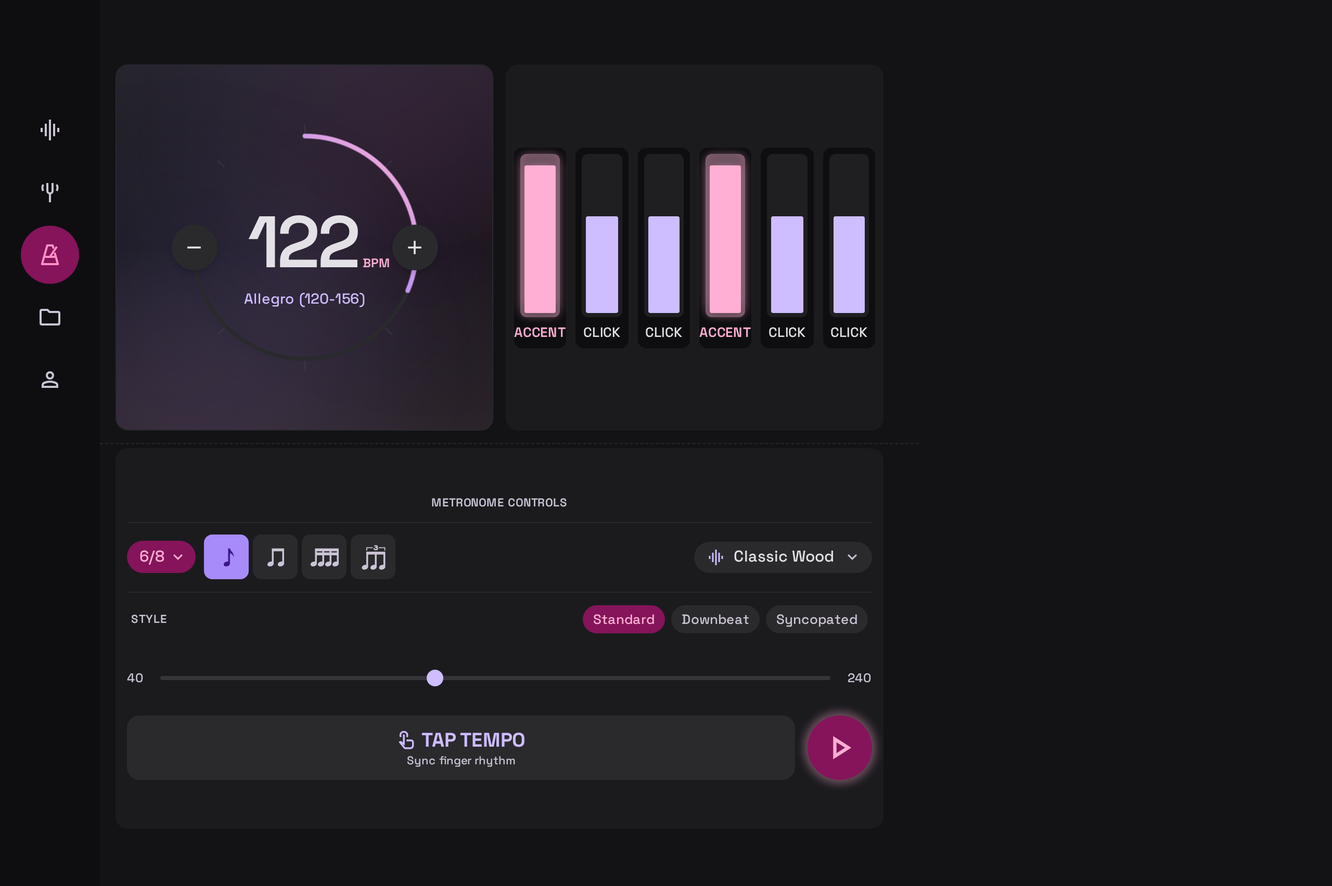
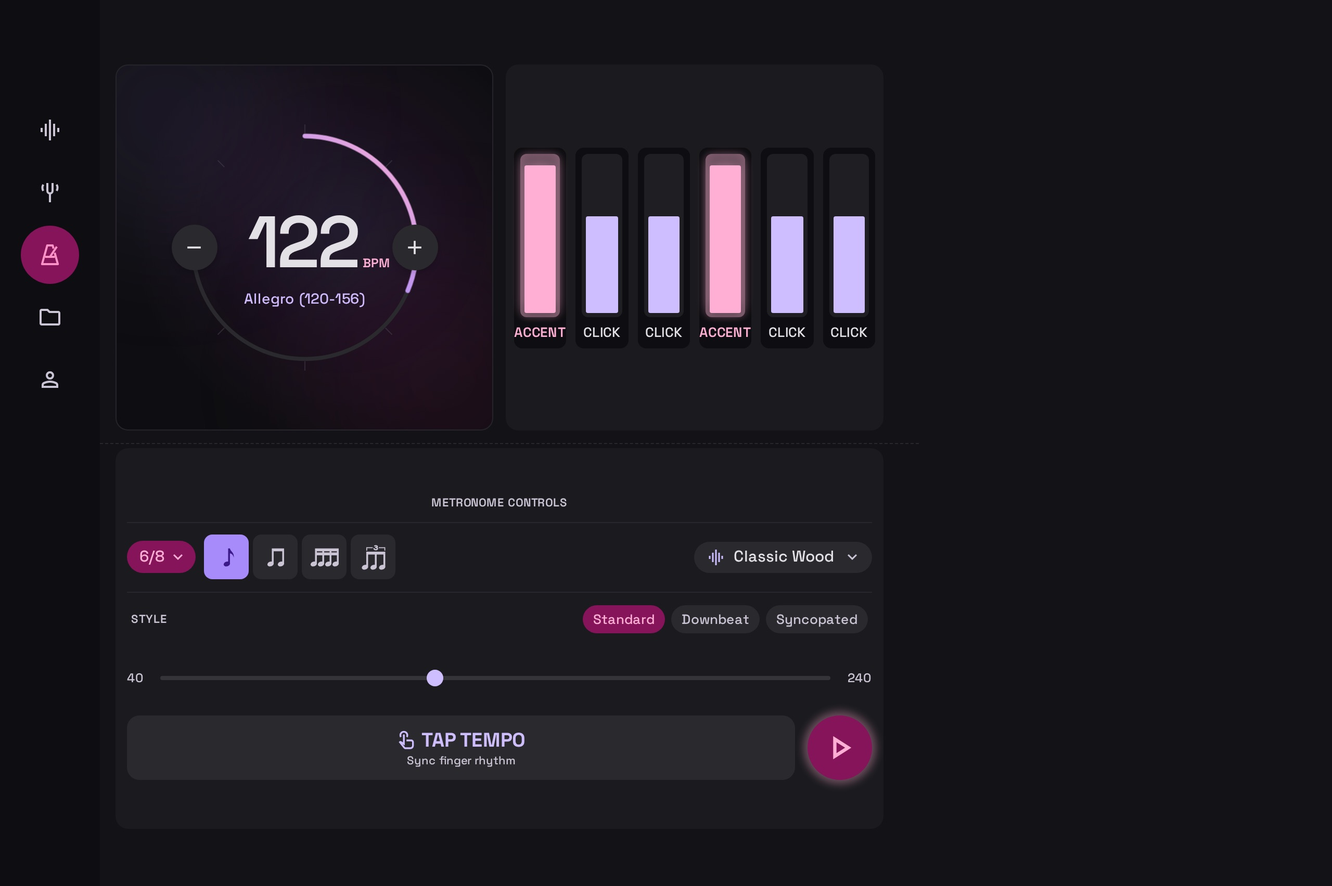
design(metronome): the spec and Stitch follow the dial card's new glow
Spec 004 records the card's look as design iteration D2 (T153-T157).
The five metronome screens in Stitch are re-uploaded with the tuner
meter's glow, no vertical tint and each form's corner discs, the old
versions hidden, and design/stitch is re-pulled from the project.

Changed region(s): [[0.0625, 0.2799, 0.3125, 0.4977], [0.2188, 0.0622, 0.375, 0.1866]]

diff --git a/design/stitch/screens/metronome/phone-landscape/index.html b/design/stitch/screens/metronome/phone-landscape/index.html
@@ -76,7 +76,7 @@
 <div class="mt-5 self-center h-[30px] pl-3 pr-3.5 rounded-full bg-[#2a2a2d] text-[#e4e1e6] text-[14px] flex items-center gap-2.5"><span class="material-symbols-outlined text-[18px] leading-none text-[#cebdff]">graphic_eq</span>Classic Wood<span class="material-symbols-outlined text-[16px] leading-none text-[#cac4d4]">expand_more</span></div>
 </section>
 <main class="flex-[3] min-w-0 flex flex-col gap-2" data-purpose="metronome-dial-pane">
-<div class="relative h-[310px] shrink-0 rounded-[22px] overflow-hidden border border-[#494552]/40" style="background:linear-gradient(180deg,rgba(206,189,255,.14) 0%,rgba(19,19,22,0) 50%,rgba(255,175,211,.12) 100%),#1b1b1e">
+<div class="relative h-[310px] shrink-0 rounded-[22px] overflow-hidden border border-[#494552]/40" style="background:radial-gradient(circle at 60% 45%, rgba(167, 139, 250, 0.12) 0%, rgba(217, 70, 239, 0.06) 35%, transparent 70%),#0e0e11">
 <svg class="absolute top-[37px] left-1/2 -ml-[189.5px]" width="379" height="236" viewBox="0 0 379 236"><defs><linearGradient id="ag" x1="0" y1="0" x2="1" y2="1"><stop offset="0" stop-color="#cebdff"/><stop offset=".6" stop-color="#d0a0f0"/><stop offset="1" stop-color="#ffafd3"/></linearGradient></defs>
 <g transform="rotate(-90 189.5 92)"><circle cx="189.5" cy="92" r="68" fill="none" stroke="#2a2a2d" stroke-width="6" stroke-linecap="round" stroke-dasharray="284.8 427.3"/><circle cx="189.5" cy="92" r="68" fill="none" stroke="url(#ag)" stroke-width="6" stroke-linecap="round" stroke-dasharray="166.2 427.3"/></g><line x1="189.5" y1="22.0" x2="189.5" y2="16.0" stroke="#494552" stroke-width="1.2" opacity=".7"/><line x1="250.1" y1="57.0" x2="255.3" y2="54.0" stroke="#494552" stroke-width="1.2" opacity=".7"/><line x1="250.1" y1="127.0" x2="255.3" y2="130.0" stroke="#494552" stroke-width="1.2" opacity=".7"/><line x1="189.5" y1="162.0" x2="189.5" y2="168.0" stroke="#494552" stroke-width="1.2" opacity=".7"/><line x1="128.9" y1="127.0" x2="123.7" y2="130.0" stroke="#494552" stroke-width="1.2" opacity=".7"/><line x1="128.9" y1="57.0" x2="123.7" y2="54.0" stroke="#494552" stroke-width="1.2" opacity=".7"/></svg>
 <button class="bpm-step-btn absolute w-11 h-11 rounded-full bg-[#2a2a2d] text-[#e4e1e6] flex items-center justify-center" style="left:113.5px;top:107px" data-delta="-1"><span class="material-symbols-outlined text-[24px]">remove</span></button>

diff --git a/design/stitch/screens/metronome/foldable-tabletop/index.html b/design/stitch/screens/metronome/foldable-tabletop/index.html
@@ -139,10 +139,9 @@
   <!-- UPPER ROW: what the musician watches (y 62-414) -->
   <!-- Dial card -->
   <section class="absolute left-[15px] top-[9px] w-[363px] h-[352px] relative-none overflow-hidden rounded-xl border border-outline-variant/40"
-       style="background: radial-gradient(circle at 50% 50%, rgba(167,139,250,0.08) 0%, rgba(30,27,46,0.4) 40%, rgba(19,19,22,0.95) 100%), #1b1b1e;">
-    <div class="absolute -top-24 -right-24 w-80 h-80 rounded-full bg-secondary-container/10 blur-3xl pointer-events-none"></div>
-    <div class="absolute -bottom-24 -left-24 w-80 h-80 rounded-full bg-primary-container/10 blur-3xl pointer-events-none"></div>
-    <div class="absolute inset-0 bg-gradient-to-b from-primary/10 via-transparent to-secondary/10 pointer-events-none"></div>
+       style="background: radial-gradient(circle at 60% 45%, rgba(167, 139, 250, 0.12) 0%, rgba(217, 70, 239, 0.06) 35%, transparent 70%), #0e0e11;">
+    <div class="absolute -top-16 -left-16 w-56 h-56 rounded-full bg-primary-container/10 blur-3xl pointer-events-none"></div>
+    <div class="absolute -bottom-16 -right-16 w-56 h-56 rounded-full bg-secondary-container/15 blur-3xl pointer-events-none"></div>
     <div class="absolute left-1/2 top-1/2 -translate-x-1/2 -translate-y-1/2 w-[268px] h-[268px]">
       <svg class="absolute inset-0 w-full h-full" viewBox="0 0 240 240">
         <defs><linearGradient id="tempoArc" x1="0%" y1="0%" x2="100%" y2="100%"><stop offset="0%" stop-color="#cebdff"/><stop offset="50%" stop-color="#a78bfa"/><stop offset="100%" stop-color="#ffafd3"/></linearGradient></defs>

diff --git a/design/stitch/screens/metronome/phone/index.html b/design/stitch/screens/metronome/phone/index.html
@@ -86,8 +86,9 @@
 </div>
 </div>
 <!-- 4. Dial card: radial glow + primary/secondary overlay, the dial filling the room left, the 40-240 slider -->
-<section class="relative flex-1 min-h-0 rounded-2xl overflow-hidden border border-surface-container-high/60 bg-surface-container-low" style="background-image: linear-gradient(180deg, rgba(206,189,255,0.10) 0%, rgba(0,0,0,0) 50%, rgba(255,175,211,0.10) 100%), radial-gradient(circle, rgba(167,139,250,0.08) 0%, rgba(30,27,46,0.4) 40%, rgba(19,19,22,0.95) 100%);">
-<div class="h-full p-3 flex flex-col items-center gap-1">
+<section class="relative flex-1 min-h-0 rounded-2xl overflow-hidden border border-surface-container-high/60 bg-surface-container-lowest" style="background-image: radial-gradient(circle at 60% 45%, rgba(167, 139, 250, 0.12) 0%, rgba(217, 70, 239, 0.06) 35%, transparent 70%);">
+<div class="absolute -top-16 -left-16 w-56 h-56 rounded-full bg-primary-container/10 blur-3xl pointer-events-none"></div><div class="absolute -bottom-16 -right-16 w-56 h-56 rounded-full bg-secondary-container/15 blur-3xl pointer-events-none"></div>
+<div class="relative h-full p-3 flex flex-col items-center gap-1">
 <div class="dial-room flex-1 min-h-0 w-full flex items-center justify-center">
 <div class="dial-box relative">
 <svg class="absolute inset-0 w-full h-full" viewBox="0 0 240 240" aria-hidden="true">

diff --git a/design/stitch/screens/metronome/tablet/index.html b/design/stitch/screens/metronome/tablet/index.html
@@ -217,10 +217,9 @@
 <section class="flex-1 min-w-0 flex flex-col gap-space-md">
   <!-- Dial card: radial glow, primary/secondary overlay, secondary disc top-end, primary disc bottom-start -->
   <div class="flex-1 min-h-0 relative overflow-hidden rounded-xl border border-outline-variant/40 flex flex-col"
-       style="background: radial-gradient(circle at 50% 50%, rgba(167,139,250,0.08) 0%, rgba(30,27,46,0.4) 40%, rgba(19,19,22,0.95) 100%), #1b1b1e;">
+       style="background: radial-gradient(circle at 60% 45%, rgba(167, 139, 250, 0.12) 0%, rgba(217, 70, 239, 0.06) 35%, transparent 70%), #0e0e11;">
     <div class="absolute -top-24 -right-24 w-80 h-80 rounded-full bg-secondary-container/10 blur-3xl pointer-events-none"></div>
     <div class="absolute -bottom-24 -left-24 w-80 h-80 rounded-full bg-primary-container/10 blur-3xl pointer-events-none"></div>
-    <div class="absolute inset-0 bg-gradient-to-b from-primary/10 via-transparent to-secondary/10 pointer-events-none"></div>
 
     <div class="flex-1 min-h-0 flex items-center justify-center relative z-10">
       <div class="relative w-[420px] h-[420px]">

diff --git a/design/stitch/screens/metronome/foldable-book/index.html b/design/stitch/screens/metronome/foldable-book/index.html
@@ -193,8 +193,9 @@
 <!-- DIAL COLUMN (right half) -->
 <section class="absolute left-[342px] top-4 w-[398px] flex flex-col gap-[14px]">
   <div class="h-[656px] relative overflow-hidden rounded-[28px] border border-outline-variant/40"
-       style="background: radial-gradient(circle at 50% 46%, rgba(167,139,250,0.06) 0%, rgba(30,27,46,0.45) 45%, rgba(19,19,22,0.9) 100%), #1b1b1e;">
-    <div class="absolute inset-0 bg-gradient-to-b from-primary/10 via-transparent to-secondary/10 pointer-events-none"></div>
+       style="background: radial-gradient(circle at 60% 45%, rgba(167, 139, 250, 0.12) 0%, rgba(217, 70, 239, 0.06) 35%, transparent 70%), #0e0e11;">
+    <div class="absolute -top-16 -right-16 w-56 h-56 rounded-full bg-secondary-container/15 blur-3xl pointer-events-none"></div>
+    <div class="absolute -bottom-16 -left-16 w-56 h-56 rounded-full bg-primary-container/10 blur-3xl pointer-events-none"></div>
 
     <div class="absolute left-1/2 top-[303px] -translate-x-1/2 -translate-y-1/2 w-[379px] h-[379px]">
       <svg class="absolute inset-0 w-full h-full" viewBox="0 0 240 240">

diff --git a/design/stitch/README.md b/design/stitch/README.md
@@ -30,8 +30,8 @@ Nine screens, each in a phone (390-wide) and tablet (1280-wide) variant; the tun
 | **Instrument tuner** (phone re-uploaded 2026-10-06, feature 006) | `instrument-tuner/phone` | `instrument-tuner/tablet` | Guitar / Cello, 6- or 7-string, Auto Listen vs By Ear. Arc gauge with needle, detected note (E2), Hz readout vs target, flat/sharp arrows, "In tune" badge, mic-active pill. The phone screen is now the upload "Instrument Tuner v2": the Stitch generation with the noise gate control at the foot of the gauge card (`NOISE GATE`, `Off` … `High`, the handle at the middle, the live fill past it). The tablet screen in Stitch drifted long ago (it shows automation lanes and a loop library, not the tuner) and was left as it is; the wide form with the control is `instrument-tuner/foldable-open` in the Foldable row. `instrument-tuner/phone-landscape` is the upload "Tuner (Auto Listen) v2": `tuner-landscape-auto-listen-b` with the control after the Tuning Mode switch in its settings column. The three superseded instances are hidden on the canvas. **2026-10-12:** the instrument selector is text only (spec 003, Session 2026-10-12): the Guitar and Cello icons were removed from every tuner screen that shows the selector and each was re-uploaded as a new version in the old one's place, the old instance hidden: phone v3 `4542867753612022076`, phone-landscape v3 `13900825118786649906`, Auto Listen foldable tabletop v4 `5360875646321662768` and open v2 `3198787914536488665`, By Ear cello phone v2 `116235278497487229`, 7-string tablet v2 `17273921086221105479`, foldable tabletop v3 `13336090417556192113` and open v2 `8625576761894439905`, and the landscape By Ear screens the app follows, `tuner-landscape-by-ear-e` v2 `8958752524680122356` and `-g` v2 `11418771186187222377`. The other landscape variants (rejected in research R9/R11) keep their icons. **2026-10-17 (icon-only navigation):** phone v5 `9386409406371084226` keeps the concept set in its bottom bar (Timeline, Tuner, Effects, Pads, Projects) without labels, Tuner on a `primary-container` pill; tablet v3 `13715299767573205047` and phone-landscape v5 `9714541075202016605` carry the app's set without Home (Timeline, Tuner, Metronome, Projects, Profile) on the 96 px rail, Tuner on a `secondary-container` circle (the landscape rail's SVG icons became Material Symbols and Profile joined the stack). **2026-10-17 (2): hand-drawn Tuner and Metronome glyphs:** phone v6 `10250620529119926488` (the bar's Tuner item is the tuning fork), tablet v4 `10913915500151973575` and phone-landscape v6 `14105338959300295387` (on the rail Tuner is the tuning fork and Metronome the pyramid metronome); the preset picker keeps its music note. |
 | **Tuner by ear** | `tuner-by-ear-cello/phone` | `tuner-by-ear-7-string-guitar/tablet` | Reference-tone mode: tuning preset picker, loop-tone toggle, one card per string (note, Hz, Audition / Playing). 2026-10-17 (icon-only navigation): cello phone v4 `4943357663610608963` (bottom bar Timeline, Tuner, Effects, Pads, Projects; Tuner on a `primary-container` pill) and 7-string tablet v4 `14943775607115315460` (the 96 px rail with Remote; Tuner on a `secondary-container` circle). **2026-10-17 (2): hand-drawn Tuner and Metronome glyphs:** cello phone v5 `2421641025489999709` and 7-string tablet v5 `6508945011555100532`, the Tuner item is the tuning fork; the preset picker keeps its music note. |
 | **Tuner, phone landscape** (added 2026-09-28) | `tuner-landscape-auto-listen-a` … `-e`, `tuner-landscape-by-ear-a` … `-g` | — | Twelve variants of the tuner for a phone held sideways (all `DESKTOP` canvases, about 1280 × 410–720). The app follows `tuner-landscape-auto-listen-b` ("Mobile Landscape Auto Listen Tuner"; its screen is hidden on the canvas, superseded by `instrument-tuner/phone-landscape`, and its export here is history: it still shows the header label) and `tuner-landscape-by-ear-g` / `-e` ("Mobile Landscape By Ear", six and seven strings): a labelled rail (these reference variants were left as they are on 2026-10-17; the app's rail is now icon-only, see `instrument-tuner/phone-landscape`), a settings column (instrument, strings, mode, preset, loop toggle) and the gauge or the string cards beside it. Rationale and the rejected variants: `specs/003-instrument-tuner/research.md` R9/R11. |
-| **Metronome** (added 2026-09-29; all three screens re-synced to the app on 2026-10-01) | `metronome/phone` | `metronome/tablet` | Each screen is now an HTML upload that mirrors the app's own captures (`specs/004-metronome/screenshots/`), not a Stitch generation. Phone (v5, 2026-10-17: icon-only navigation, no Home; v4, 2026-10-16: no app header): one compact bar-shape card (time-signature menu pill beside four note-figure subdivision tiles, accent cells with labels, STYLE pills), the sound pill, a dial card that takes the remaining height, the Tap Tempo and Play row with an 8 px halo, and the app's bottom bar without labels (Timeline, Tuner, Metronome, Projects, Profile), Metronome on a `primary-container` pill. `metronome/phone-landscape` (v11, 2026-10-17: icon-only rail, no Home; v10, no header): the app's 96 px rail (same five items, Metronome on a `secondary-container` circle), a 2:3 split with the stacked landscape card (signature and style menu pills, tiles, label-less cells, sound pill) and the dial card spanning the right pane with the transport beneath. Tablet (v4, 2026-10-17: icon-only rail, no Home; v3, no header): the 96 px rail, the Wide layout's settings column (TIME SIGNATURE chips, RHYTHM SUBDIVISION chips with glyphs and labels, accent cells with STYLE pills, CLICK TIMBRE tiles) beside a dial card filling the rest and the transport card beneath. Superseded instances are hidden on the canvas; Stitch's three generated proposals for the compact phone layout stay for reference. **2026-10-17 (2): hand-drawn Tuner and Metronome glyphs:** phone v6, landscape v12 and tablet v5 show the tuning fork for Tuner and the pyramid metronome for Metronome. |
-| **Foldable** (added 2026-10-02, feature 005; refreshed the same day for design iterations D1/D2; Auto Listen refreshed 2026-10-06 for feature 006) | — | `instrument-tuner/foldable-tabletop` (v3), `instrument-tuner/foldable-open` (new), `tuner-by-ear/foldable-tabletop`, `metronome/foldable-tabletop`, `metronome/foldable-book`, `tuner-by-ear/foldable-open` | HTML uploads that mirror the app on a Pixel 9 Pro Fold (`specs/005-tabletop-posture/screenshots/`). Tabletop (v2, 883 × 852, the fold at y 426 drawn as a faint dashed guide, 12 px gutters): the meter or the cello's 2 × 2 string cards above a card with a centred TUNER CONTROLS heading and the controls stacked in one centred column; the metronome's ring-only dial and tall accent cells above one METRONOME CONTROLS card (signature, tiles and sound; style; slider; tap and play). Book (852 × 883, the hinge at x 426): the metronome's settings before the hinge, the dial and transport after it. Open (852 × 883): the By Ear grid of square cards, centred, a short last row centred. The v1 tabletop instances are hidden. Stitch draws their thumbnails on its wide canvas; the HTML is the design. Feature 006 (2026-10-06): the tuner's tabletop controls card (v3) carries the noise gate control under the mode selector, with the heading, seam and column moved up to stay centred; "Tuner Auto Listen (Foldable Open)" (852 × 883, next to the By Ear open screen on the canvas) is the wide form: the rail, the selector row with a MIC ACTIVE pill, and one card with the regular gauge centred in the room above the control at the card's foot (480 wide, centred). The mocks draw the slider's track 4 px tall where the app's is 6 dp; everything else follows the captures in `specs/006-tuner-noise-gate/screenshots/`. The tabletop v2 instance is hidden. **2026-10-17 (icon-only navigation):** every foldable screen's rail is the app's 96 px rail without labels or Home (Timeline, Tuner, Metronome `av_timer`, Projects, Profile), items from 44 px under the status-bar inset, the active item on a `secondary-container` circle; the content beside it is 32 px narrower and the fold or hinge guide stays where it was: Auto Listen tabletop v6 and open v4, By Ear tabletop v5 and open v4, metronome tabletop v4 and book v3. **2026-10-17 (2): hand-drawn Tuner and Metronome glyphs:** Auto Listen tabletop v7 and open v5, By Ear tabletop v6 and open v5, metronome tabletop v5 and book v4: on the rail Tuner is the tuning fork and Metronome the pyramid metronome. |
+| **Metronome** (added 2026-09-29; all three screens re-synced to the app on 2026-10-01) | `metronome/phone` | `metronome/tablet` | Each screen is now an HTML upload that mirrors the app's own captures (`specs/004-metronome/screenshots/`), not a Stitch generation. Phone (v5, 2026-10-17: icon-only navigation, no Home; v4, 2026-10-16: no app header): one compact bar-shape card (time-signature menu pill beside four note-figure subdivision tiles, accent cells with labels, STYLE pills), the sound pill, a dial card that takes the remaining height, the Tap Tempo and Play row with an 8 px halo, and the app's bottom bar without labels (Timeline, Tuner, Metronome, Projects, Profile), Metronome on a `primary-container` pill. `metronome/phone-landscape` (v11, 2026-10-17: icon-only rail, no Home; v10, no header): the app's 96 px rail (same five items, Metronome on a `secondary-container` circle), a 2:3 split with the stacked landscape card (signature and style menu pills, tiles, label-less cells, sound pill) and the dial card spanning the right pane with the transport beneath. Tablet (v4, 2026-10-17: icon-only rail, no Home; v3, no header): the 96 px rail, the Wide layout's settings column (TIME SIGNATURE chips, RHYTHM SUBDIVISION chips with glyphs and labels, accent cells with STYLE pills, CLICK TIMBRE tiles) beside a dial card filling the rest and the transport card beneath. Superseded instances are hidden on the canvas; Stitch's three generated proposals for the compact phone layout stay for reference. **2026-10-17 (2): hand-drawn Tuner and Metronome glyphs:** phone v6, landscape v12 and tablet v5 show the tuning fork for Tuner and the pyramid metronome for Metronome. **2026-11-09 (the dial card takes the tuner meter's glow, spec 004 D2):** phone v7 `11921914303701879142`, landscape v13 `2340040591068649069` and tablet v6 `30228000537795116` draw `meterCompact`'s radial on `surface-container-lowest` with no vertical tint. The phone's dial card carries the tuner's corner discs, the tablet keeps its discs in the opposite corners, and landscape has none. |
+| **Foldable** (added 2026-10-02, feature 005; refreshed the same day for design iterations D1/D2; Auto Listen refreshed 2026-10-06 for feature 006) | — | `instrument-tuner/foldable-tabletop` (v3), `instrument-tuner/foldable-open` (new), `tuner-by-ear/foldable-tabletop`, `metronome/foldable-tabletop`, `metronome/foldable-book`, `tuner-by-ear/foldable-open` | HTML uploads that mirror the app on a Pixel 9 Pro Fold (`specs/005-tabletop-posture/screenshots/`). Tabletop (v2, 883 × 852, the fold at y 426 drawn as a faint dashed guide, 12 px gutters): the meter or the cello's 2 × 2 string cards above a card with a centred TUNER CONTROLS heading and the controls stacked in one centred column; the metronome's ring-only dial and tall accent cells above one METRONOME CONTROLS card (signature, tiles and sound; style; slider; tap and play). Book (852 × 883, the hinge at x 426): the metronome's settings before the hinge, the dial and transport after it. Open (852 × 883): the By Ear grid of square cards, centred, a short last row centred. The v1 tabletop instances are hidden. Stitch draws their thumbnails on its wide canvas; the HTML is the design. Feature 006 (2026-10-06): the tuner's tabletop controls card (v3) carries the noise gate control under the mode selector, with the heading, seam and column moved up to stay centred; "Tuner Auto Listen (Foldable Open)" (852 × 883, next to the By Ear open screen on the canvas) is the wide form: the rail, the selector row with a MIC ACTIVE pill, and one card with the regular gauge centred in the room above the control at the card's foot (480 wide, centred). The mocks draw the slider's track 4 px tall where the app's is 6 dp; everything else follows the captures in `specs/006-tuner-noise-gate/screenshots/`. The tabletop v2 instance is hidden. **2026-10-17 (icon-only navigation):** every foldable screen's rail is the app's 96 px rail without labels or Home (Timeline, Tuner, Metronome `av_timer`, Projects, Profile), items from 44 px under the status-bar inset, the active item on a `secondary-container` circle; the content beside it is 32 px narrower and the fold or hinge guide stays where it was: Auto Listen tabletop v6 and open v4, By Ear tabletop v5 and open v4, metronome tabletop v4 and book v3. **2026-10-17 (2): hand-drawn Tuner and Metronome glyphs:** Auto Listen tabletop v7 and open v5, By Ear tabletop v6 and open v5, metronome tabletop v5 and book v4: on the rail Tuner is the tuning fork and Metronome the pyramid metronome. **2026-11-09 (the dial card takes the tuner meter's glow, spec 004 D2):** metronome tabletop v6 `17075753265749514286` (the tuner's corner discs) and book v5 `17628491395953355793` (the discs in the opposite corners, which the app already drew): the same radial on `surface-container-lowest`, no vertical tint. |
 | **Audio export & stem mastering** | `export-mastering/phone` | `export-mastering/tablet` | Stem routing matrix (per-stem checkbox, tag, format, size), estimated total, format (WAV / FLAC / MP3 320 / AAC), sample rate, bit depth, gradient "Render selected stems" CTA. v2 of both (2026-10-17, icon-only navigation): the phone's bottom bar (Timeline, Tuner, Effects, Pads, Projects) has Projects on a `primary-container` pill; the tablet's 96 px rail (with Remote) has Tuner, which the original already marked active, on a `secondary-container` circle. 2026-10-17 (2): hand-drawn Tuner and Metronome glyphs: v3 of both, the Tuner item is the tuning fork. |
 
 | **Mixer and timeline references** (added 2026-10-13, feature 009; evidence for feature 010) | `mixer-timeline/phone-drawer` | `mixer-timeline/tablet-split-v1`, `-v2`, `-console` | Image-only screens from the user's **second** Stitch project, https://stitch.withgoogle.com/projects/13820816821466270236 ("Studio Sound" design system; Stitch holds no HTML for them, so each folder has only `screenshot.jpg`, 768 × 1376). Phone: a timeline with a two-row ruler (bars with a lilac playhead chip, seconds), large square S/M buttons and a Pan L/R slider per header, full-height rounded clips with filled waveforms (lilac, salmon, rose), and a "Mixer" drawer at the bottom with a master fader, LED meter and FX dial. Tablet: a six-strip mixer console (numbers, dual meters, VU dials, pan knobs, Solo/Mute, long-throw faders with a dB scale in the console version) beside a six-track timeline; a top transport with record and a "120 BPM / 4/4" pill, and their own bottom navigation. Only the timeline parts are decided in spec 009; the mixer parts wait for spec 010; the top transport, bottom navigation, iOS status bars and the Studio Sound tokens are drift against this project's `DESIGN.md`. Listed in `screens.json` with a `project` field. |

diff --git a/specs/004-metronome/contracts/metronome-screen.md b/specs/004-metronome/contracts/metronome-screen.md
@@ -71,7 +71,7 @@ Column(testTag "screen.metronome", padding pageMargin)
 │   │   ├── AccentCells(oneRow) — every beat in one row whenever each cell keeps 44 dp: the row spans the card's inner width with a 2–4 dp gap and the cell width is the share of that width; the level label is hidden when a cell is narrower than its widest label (6/8 and 7/8 on a phone) and the bar alone shows the level; only when 44 dp cannot be kept the cells wrap as before   "metronome.cells", cells "metronome.cell.<n>"
 │   │   └── StyleRow(state.settings.style, onStyle)                                                      "metronome.style", pills "metronome.style.<id>"
 │   ├── ClickSoundPicker(layout = Dropdown, sound, customSound, onSound, onImport, onReplace)             "metronome.sound", menu items "metronome.sound.<id>", "metronome.sound.replace"
-│   └── TembraGradientCard(glow = tempoDialCard, weight 1, testTag "metronome.dialCard"): TempoDial sized from the remaining height (ring 160–300 dp)   "metronome.dial", steppers "metronome.dial.down" / "metronome.dial.up"
+│   └── TembraGradientCard(glow = meterCompact, discs = TopStartBottomEnd, weight 1, testTag "metronome.dialCard"): TempoDial sized from the remaining height (ring 160–300 dp)   "metronome.dial", steppers "metronome.dial.down" / "metronome.dial.up"
 │       └── TempoSlider(tempo, onTempo)                                                                   "metronome.slider"
 └── Row(pinned, gap md): TapTempoButton(caption, onTap) "metronome.tap"; PlayPauseButton(running, onTogglePlayback) "metronome.play"
 
@@ -84,7 +84,7 @@ of Stacked; every other device and every test keep the bands above. Research and
 Column(testTag "screen.metronome", padding pageMargin × sm, gap sm)
 ├── Card (surfaceContainerLow, medium corners, padding sm): AccentCells(form = BarOnly, gap 4 dp)      "metronome.cells"
 ├── Box(weight 1)
-│   ├── TembraGradientCard(tempoDialCard, fills the box): TempoDial (ring up to 300 dp) + TempoSlider      "metronome.dialCard"
+│   ├── TembraGradientCard(meterCompact, discs = None, fills the box): TempoDial (ring up to 300 dp) + TempoSlider; the tiers without the ring use the same glow with discs = TopStartBottomEnd      "metronome.dialCard"
 │   └── settings button (TopEnd, inset xs): 44 dp round surfaceContainerHigh, TembraIcon.Settings, "Metronome settings"   "metronome.pocket.settings"
 └── Row(pinned, gap md): TapTempoButton + PlayPauseButton (above the bottom edge; since 2026-10-04 the shell's
     LayoutMode.EndRail puts the navigation in the end-edge column on the Duo, so no bottom bar sits under the row)
@@ -109,14 +109,14 @@ Wide (840 dp or wider and 480 dp or taller):
 Row(testTag "screen.metronome", padding pageMargin, gap md)
 ├── Column(width max(1/3, wideSettingsMinWidth), verticalScroll): MetronomeSettingsPanel with ClickSoundPicker(layout = Tiles) in a "CLICK TIMBRE" card
 └── Column(weight 1, gap md)
-    ├── TembraGradientCard(tempoDialCard, discs = TopEndBottomStart, weight 1): TempoDial (max 420 dp, centred) + TempoSlider
+    ├── TembraGradientCard(meterCompact, discs = TopEndBottomStart, weight 1): TempoDial (max 420 dp, centred) + TempoSlider
     └── Card: Row(max 448 dp, centred): TapTempoButton (weight 1) + PlayPauseButton
 
 Landscape (600 dp or wider, shorter than 480 dp):
 Row(testTag "screen.metronome", padding pageMargin × sm, gap md)
 ├── settings column (2⁄5 of the content width — a 2:3 split against the dial pane, the user's choice on 2026-10-01 — never under 240 dp × font scale; verticalScroll only when the card does not fit): the LANDSCAPE bar-shape card, which differs from the Stacked card because the real column is only about 300 dp on the Pixel 6 Pro and 260 dp on the iPhone 17 once the rail and the safe areas are taken (sixth check, 2026-10-01): Row(gap sm): TimeSignatureMenu + StyleMenu ("Standard ▾", see design-system-additions); Row: SubdivisionTiles filling the width; AccentCells(labels hidden — the bar's height and colour carry the level, the stateDescription announces it — gap 4 dp, one row when every cell keeps 44 dp, otherwise two rows of 44 dp cells); then ClickSoundPicker(Dropdown). Heights at the default font: about 180 dp at 4/4 and 232 dp at 7/8, inside the 287 dp (Pixel) / 292 dp (iPhone 17) content height, so nothing scrolls. TimeSignatureChips and SubdivisionChips remain the Wide controls only
 └── dial pane (the remaining 3⁄5): Column(gap sm) filling the pane's width — the dial card spans the whole pane (the ring centred, sized from the height) and the transport row under it spans the pane too (revised 2026-10-01, the user's second to fourth landscape checks)
-    ├── TembraGradientCard(tempoDialCard, testTag "metronome.dialCard"): TempoDial with the ring sized from the pane height (height − transport row − slider − gaps − paddings, clamped 160–300 dp), TempoSlider
+    ├── TembraGradientCard(meterCompact, discs = None, testTag "metronome.dialCard"): TempoDial with the ring sized from the pane height (height − transport row − slider − gaps − paddings, clamped 160–300 dp), TempoSlider
     └── Row(gap sm): TapTempoButton (weight 1) + PlayPauseButton — the row's height scales between 48 and 64 dp with the pane height (targets never under 44 dp); the pane scrolls only when even a 48 dp row leaves the ring under 160 dp
     (the former "larger dial" rule that put tap and play beside the dial card is withdrawn)
 ```

diff --git a/specs/004-metronome/data-model.md b/specs/004-metronome/data-model.md
@@ -261,11 +261,11 @@ Tokens added (tested for parity with research R10 in `MetronomeTokensTest`):
 | `TembraSpacing.soundMenuWidth` / `soundTileHeight` / `soundTileGlyphBox` | 160 dp / 44 dp / 28 dp |
 | `TembraSpacing.wideSettingsMinWidth` | 320 dp (the wide layout's left column, 1/3 of the width at least this) |
 | `TembraGradients.tempoArc` | linear, start → end of the dial box: `primary` (#CEBDFF) → `primaryContainer` (#A78BFA) at 50 % → `secondary` (#FFAFD3) |
-| `TembraGradients.tempoDialCard` | radial at (0.5, 0.5): `primaryContainer` 8 % → #1E1B2E 40 % at 40 % → `surfaceDim` 95 % at 100 % |
-| `TembraGradients.tempoDialOverlay` | vertical linear: `primary` 10 % → transparent at 50 % → `secondary` 10 % |
+| `TembraGradients.tempoDialCard` | radial at (0.5, 0.5): `primaryContainer` 8 % → #1E1B2E 40 % at 40 % → `surfaceDim` 95 % at 100 %. Since 2026-11-09 no screen draws it: the dial card uses the tuner's `meterCompact` |
+| `TembraGradients.tempoDialOverlay` | vertical linear: `primary` 10 % → transparent at 50 % → `secondary` 10 %. Since 2026-11-09 no screen draws it |
 | `TembraGradients.accentGlow` | `Glow(secondary 50 %, 12 dp)` |
 | `TembraGradients.playGlow` | `Glow(secondary 35 %, 24 dp)` |
-| `CardDiscs.TopStartBottomEnd` (default, the tuner's) / `CardDiscs.TopEndBottomStart` (the tablet dial card) | placement of the existing disc tokens |
+| `CardDiscs.TopStartBottomEnd` (default, the tuner's; since 2026-11-09 also the stacked and tabletop dial cards and the pocket card without the ring) / `CardDiscs.TopEndBottomStart` (the tablet dial card) | placement of the existing disc tokens |
 
 `TembraIcon` gains `Remove, Add, TouchApp, MusicNote, GraphicEq, RadioButtonChecked,
 Notifications, Sensors, Tune, Check`. No colour is added to `TembraColorScheme` or `DawColors`.

diff --git a/specs/004-metronome/tasks.md b/specs/004-metronome/tasks.md
@@ -336,6 +336,18 @@ description: "Task list for feature 004: metronome"
 
 ---
 
+## Phase 12: Design iteration D2 (2026-11-09) — the dial card takes the tuner meter's glow
+
+**Goal**: every metronome dial card draws the tuner's meter-card glow with no vertical tint, the stacked and tabletop dial cards and the pocket card without the ring take the tuner's corner discs, and the specs and the Stitch screens say the same.
+
+- [X] T153 `MetronomeScreenContent.kt`: `glow = meterCompact` and `overlay = null` on `DialCard`, `TempoCard` and `TabletopDialCard`; `discs = TopStartBottomEnd` on the stacked `DialCard`, `TempoCard` and `TabletopDialCard`. The wide and book forms keep `TopEndBottomStart`; landscape and the pocket ring card keep `None`
+- [X] T154 Specs: `spec.md` (Session 2026-11-09), `contracts/metronome-screen.md`, `contracts/design-system-additions.md`, `data-model.md`, `research.md` R10
+- [X] T155 Stitch: the five metronome screens re-uploaded from their live HTML with the new card (phone v7, landscape v13, tablet v6, tabletop v6, book v5), placed where the old versions sat, the old instances hidden, `design/stitch/` re-pulled and byte-compared against the project
+- [X] T156 Tests: CI on the PR (`checkAndroidHost`, `:androidApp:assembleRelease`, `checkIos`, `engineHostTest`); `audio.tembra.ui.metronome.*` and `TembraGradientCardTest` on the iPhone Duo, iPad Pro 13-inch and iPhone 18 Pro simulators; `audio.tembra.ui.metronome` on the `Tembra_Desktop_API37` emulator
+- [ ] T157 The same Android package on the Pixel 6 Pro, Pixel 7 Pro, Pixel Tablet, OPPO and Redmi once the `012-mixer` device lanes have finished (the Redmi's first attempt lost its USB link after 48 passing tests)
+
+---
+
 ## Dependencies & Execution Order
 
 ### Phase Dependencies

diff --git a/specs/004-metronome/research.md b/specs/004-metronome/research.md
@@ -456,6 +456,10 @@ tuner's placement.
 | expanded | tablet `grid-cols-12 gap-3`: left `col-span-4` (signature, subdivision, accents, click timbre), right `col-span-8` (dial card `flex-1`, then a card with tap/play centred `max-w-md`) | `MetronomeLayout.Wide`: left column 1/3 of the width (min 320 dp), right column the rest; the tap/play card under the dial card |
 | phone landscape | uploaded screen: rail, `w-72` controls column (signature 2 × 3, subdivision, accents + style, sound dropdown), main pane with the dial (`h-full` ring), slider, tap/play row | `MetronomeLayout.Landscape`: controls column 36 % of the content width within 224–280 dp (feature 003's landscape tokens), scrolling; the dial sized from the pane height so dial, slider and the tap/play row fit without scrolling |
 
+**2026-11-09 (design iteration D2):** the "dial card" row above records the original design and
+no longer describes the app. The card now draws `meterCompact` on `surfaceContainerLowest` with no
+overlay, and each form's disc placement is in `contracts/metronome-screen.md`.
+
 Two design details are corrected rather than copied, as in feature 003: chips and pills keep
 their drawn height but get a 44 dp touch target (`minimumInteractiveComponentSize`), and no drop
 shadows are drawn (DESIGN.md), glows being radial or stroke gradients.

diff --git a/specs/004-metronome/contracts/design-system-additions.md b/specs/004-metronome/contracts/design-system-additions.md
@@ -12,7 +12,9 @@
 - `TembraGradients`: `tempoArc: LinearGlow` (new helper `LinearGlow(start: Offset fraction, end: Offset fraction, stops)` with `brush(size)`, beside `RadialGlow`), `tempoDialCard: RadialGlow`,
   `tempoDialOverlay: LinearGlow`, `accentGlow: Glow`, `playGlow: Glow` (radius 8 dp since 2026-10-01, was 24 dp: the halo overlapped the Tap Tempo card). No colour token is added
   (`ThemeJsonParityTest` unchanged; `MetronomeTokensTest` asserts every stop is a scheme colour or
-  the documented in-gradient stop `#1E1B2E`).
+  the documented in-gradient stop `#1E1B2E`). Since 2026-11-09 the dial card draws the tuner's
+  `meterCompact` with no overlay, so `tempoDialCard` and `tempoDialOverlay` stay in the theme with no
+  screen drawing them.
 - `TembraIcon`: `Remove, Add, TouchApp, MusicNote, GraphicEq, RadioButtonChecked, Notifications,
   Sensors, Tune, Check` (fetched by `tools/fetch-material-symbols.sh`; `IconAssetsTest` extended).
 

diff --git a/specs/004-metronome/spec.md b/specs/004-metronome/spec.md
@@ -107,6 +107,14 @@ Worked examples (A = Accent, C = Click, s = Sub; subdivision ticks in lower case
   route-change guidance and Android's becoming-noisy convention require; connecting a new output
   still continues the click on it (FR-027, User Story 6).
 
+### Session 2026-11-09
+
+- Q (design iteration D2): What does the card behind the tempo dial look like? → A: It has the
+  same glow as the tuner's meter card and no vertical tint, on every form of the screen. The
+  stacked and tabletop dial cards, and the pocket form's card without the ring, also take the
+  tuner's two corner discs. The wide and book forms keep their discs in the opposite corners,
+  and the landscape form and the pocket form's ring card have none.
+
 ## User Scenarios & Testing *(mandatory)*
 
 The users of this feature are musicians who open Tembra Audio to practise or warm up to a steady
